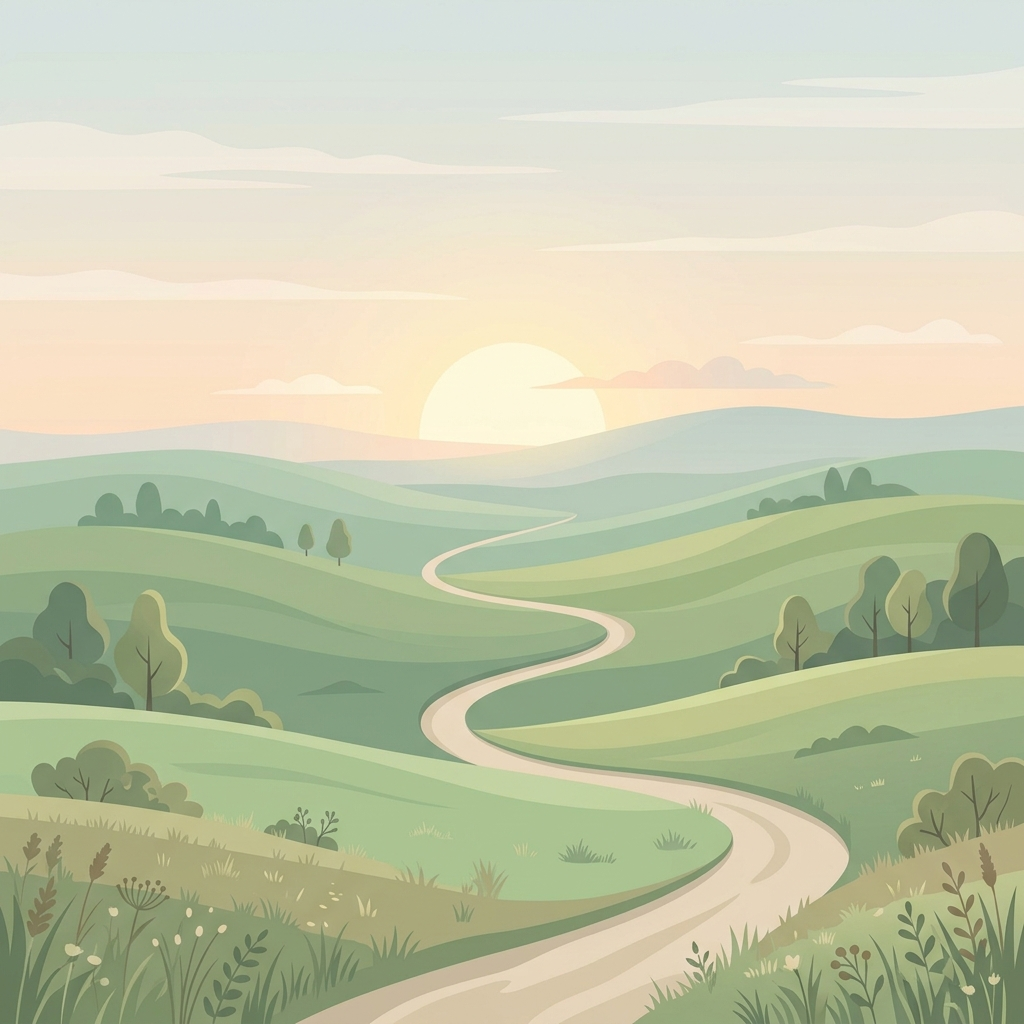
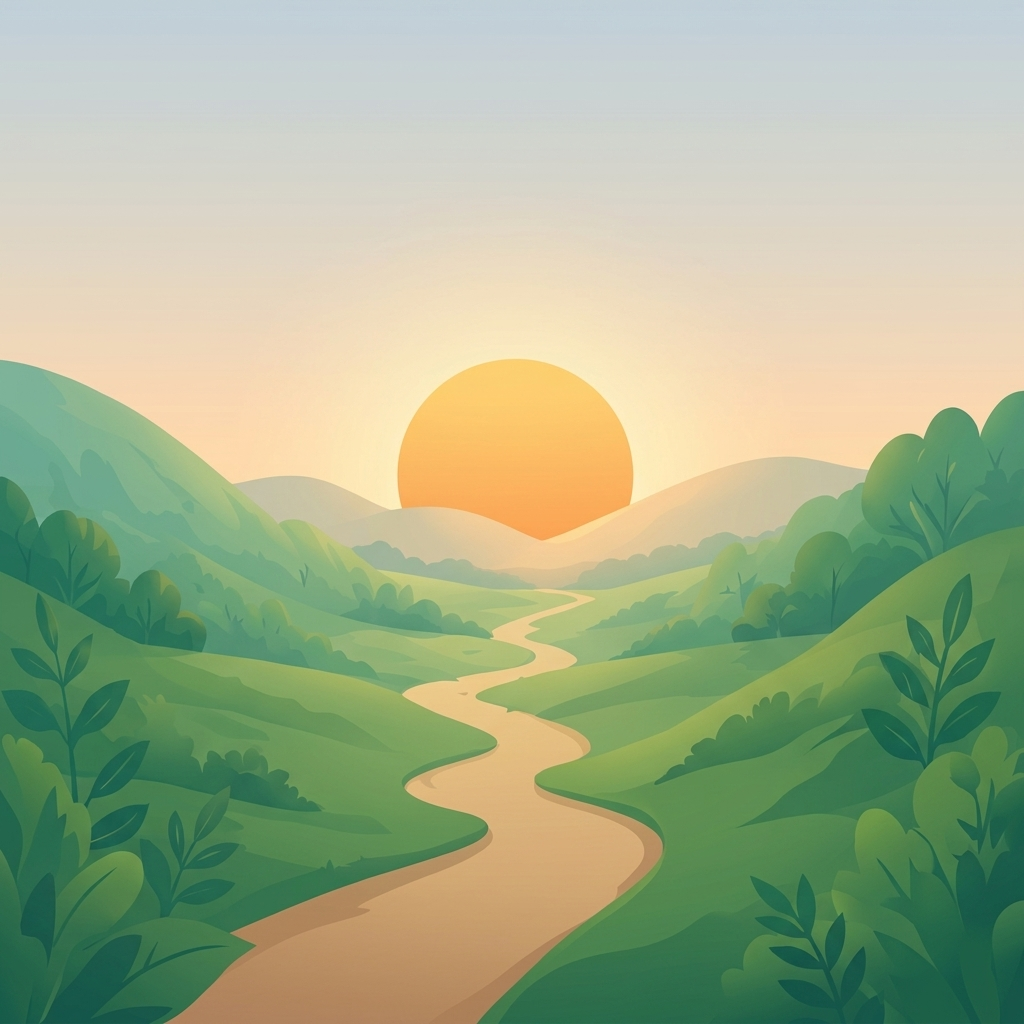
Update background animation to slide up from bottom

diff --git a/frontend/src/index.css b/frontend/src/index.css
@@ -6,9 +6,6 @@
   --text-dark: #1A2E35;
   --text-gray: #546E7A;
   --bg-cream: #FCFAF8;
-  --leaf-color: #6DBE8E;
-  --sun-color: #F8CA55;
-  --sprout-color: #7BB95E;
 }
 
 * {
@@ -19,75 +16,84 @@
 
 body {
   font-family: 'Inter', sans-serif;
-  background-color: var(--bg-cream);
   color: var(--text-dark);
   -webkit-font-smoothing: antialiased;
   overflow-x: hidden;
 }
 
-/* Animations - Clean Slide Up */
-@keyframes slideUpFade {
-  0% { opacity: 0; transform: translateY(40px); }
+/* Animations */
+@keyframes bgSlideUpFromBottom {
+  0%   { opacity: 0; transform: translateY(100vh); }
   100% { opacity: 1; transform: translateY(0); }
 }
 
-@keyframes landscapeSlideUp {
-  0% { opacity: 0; transform: translateY(100px); }
+@keyframes slideUp {
+  0%   { opacity: 0; transform: translateY(40px); }
   100% { opacity: 1; transform: translateY(0); }
 }
 
-/* App Container - Responsive for Desktop & Mobile */
+@keyframes slideDown {
+  0%   { opacity: 0; transform: translateY(-30px); }
+  100% { opacity: 1; transform: translateY(0); }
+}
+
+/* App Container — background image fills full screen */
 .app-container {
   display: flex;
   flex-direction: column;
   min-height: 100vh;
-  position: relative;
   width: 100%;
-  background-color: var(--bg-cream);
+  position: relative;
   overflow: hidden;
-  align-items: center;
+  background-color: var(--bg-cream);
 }
 
-/* Landscape Background - Covers bottom across all screens */
-.landscape-bg {
+.app-container::before {
+  content: "";
   position: absolute;
-  bottom: 0;
+  top: 0;
   left: 0;
   width: 100%;
-  height: 50vh; 
+  height: 100%;
   background-image: url('/hopemo_bg.png');
   background-size: cover;
-  background-position: center top;
+  background-position: center center;
   background-repeat: no-repeat;
-  z-index: 1;
+  z-index: 0;
+
+  /* Slides up from bottom */
   opacity: 0;
-  animation: landscapeSlideUp 1.2s cubic-bezier(0.16, 1, 0.3, 1) forwards;
-  animation-delay: 0.2s;
+  transform: translateY(100vh);
+  animation: bgSlideUpFromBottom 1.5s cubic-bezier(0.16, 1, 0.3, 1) forwards;
 }
 
-/* Content Wrapper to push things to front */
+/* Content Wrapper — sits on top of background */
 .content-wrapper {
+  position: relative;
   z-index: 10;
   width: 100%;
-  max-width: 800px;
+  max-width: 500px;
+  margin: 0 auto;
   display: flex;
   flex-direction: column;
   align-items: center;
   flex: 1;
+  min-height: 100vh;
   padding: 0 20px;
 }
 
-/* Header */
+/* Header — slides down after background appears */
 .header {
   text-align: center;
-  padding: 60px 20px 20px;
+  padding: 50px 20px 20px;
   display: flex;
   flex-direction: column;
   align-items: center;
   opacity: 0;
-  animation: slideUpFade 0.8s cubic-bezier(0.16, 1, 0.3, 1) forwards;
-  animation-delay: 2.2s; /* Appears later */
+  animation: slideDown 1.2s cubic-bezier(0.16, 1, 0.3, 1) forwards;
+  animation-delay: 2.2s;
 }
+
 .logo-container {
   display: flex;
   flex-direction: column;
@@ -95,132 +101,70 @@ body {
   gap: 8px;
   margin-bottom: 4px;
 }
+
 .logo-icon { color: var(--primary-green); }
+
 .logo-text {
   font-size: 32px;
   font-weight: 700;
   color: var(--primary-green);
   letter-spacing: -0.5px;
 }
+
 .subtitle {
   font-size: 15px;
   color: var(--text-gray);
   font-weight: 500;
 }
 
-/* Main Content */
+/* Main Content — slides up after header */
 .main-content {
   text-align: center;
-  padding: 20px 0 40px;
+  padding: 10px 0 30px;
   opacity: 0;
-  animation: slideUpFade 0.8s cubic-bezier(0.16, 1, 0.3, 1) forwards;
-  animation-delay: 1.8s;
+  animation: slideUp 1.2s cubic-bezier(0.16, 1, 0.3, 1) forwards;
+  animation-delay: 3.0s;
 }
+
 .title {
-  font-size: 42px;
+  font-size: 36px;
   font-weight: 700;
   line-height: 1.2;
   color: var(--text-dark);
-  margin-bottom: 24px;
+  margin-bottom: 20px;
   letter-spacing: -1px;
 }
+
 .description {
-  font-size: 18px;
+  font-size: 16px;
   color: var(--text-gray);
   line-height: 1.6;
 }
 
-@media (max-width: 768px) {
-  .title { font-size: 32px; }
-  .description { font-size: 16px; }
-}
-
-/* Spacer to push card down */
-.spacer {
-  flex: 1;
-}
+/* Spacer */
+.spacer { flex: 1; }
 
 /* Bottom Card Container */
 .bottom-card-container {
   width: 100%;
-  max-width: 600px;
-  margin: 0 auto;
   padding: 0 0 40px;
-  z-index: 20;
+  opacity: 0;
+  animation: slideUp 1.2s cubic-bezier(0.16, 1, 0.3, 1) forwards;
+  animation-delay: 3.8s;
 }
 
 .trusted-card {
   background: white;
   border-radius: 24px;
-  padding: 32px 24px;
-  box-shadow: 0 20px 40px rgba(0,0,0,0.08);
-  opacity: 0;
-  animation: slideUpFade 1s cubic-bezier(0.16, 1, 0.3, 1) forwards;
-  animation-delay: 0.6s;
-}
-
-.trusted-title {
-  text-align: center;
-  color: var(--text-dark);
-  font-size: 15px;
-  font-weight: 500;
-  margin-bottom: 24px;
-  opacity: 0;
-  animation: slideUpFade 0.8s cubic-bezier(0.16, 1, 0.3, 1) forwards;
-  animation-delay: 0.8s;
-}
-
-.features-grid {
-  display: flex;
-  justify-content: space-between;
-  margin-bottom: 32px;
-}
-
-.feature-item {
-  display: flex;
-  flex-direction: column;
-  align-items: center;
-  gap: 12px;
-  flex: 1;
-  position: relative;
-  opacity: 0;
-  animation: slideUpFade 0.8s cubic-bezier(0.16, 1, 0.3, 1) forwards;
-}
-
-/* Features pop up sequentially */
-.feature-item:nth-child(1) { animation-delay: 1.0s; }
-.feature-item:nth-child(2) { animation-delay: 1.2s; }
-.feature-item:nth-child(3) { animation-delay: 1.4s; }
-
-.feature-item:not(:last-child)::after {
-  content: '';
-  position: absolute;
-  right: 0;
-  top: 10%;
-  height: 80%;
-  width: 1px;
-  background-color: #F0F0F0;
-}
-
-.feature-icon { margin-bottom: 4px; }
-.leaf-icon { color: var(--leaf-color); }
-.sun-icon { color: var(--sun-color); }
-.sprout-icon { color: var(--sprout-color); }
-
-.feature-item span {
-  font-size: 14px;
-  color: var(--text-dark);
-  font-weight: 500;
+  padding: 24px 20px;
+  box-shadow: 0 15px 40px rgba(0, 0, 0, 0.1);
 }
 
 /* Buttons */
 .buttons-container {
   display: flex;
   flex-direction: column;
-  gap: 16px;
-  opacity: 0;
-  animation: slideUpFade 0.8s cubic-bezier(0.16, 1, 0.3, 1) forwards;
-  animation-delay: 2.6s;
+  gap: 14px;
 }
 
 .btn-primary {
@@ -236,26 +180,30 @@ body {
   align-items: center;
   gap: 8px;
   cursor: pointer;
-  transition: all 0.2s ease;
+  transition: background 0.2s ease;
+  font-family: 'Inter', sans-serif;
 }
-
-.btn-primary:hover {
-  background-color: #216048;
-}
+.btn-primary:hover { background-color: #216048; }
 
 .btn-secondary {
   background-color: white;
   color: var(--primary-green);
-  border: 1px solid #E0E0E0;
+  border: 1.5px solid #E0E0E0;
   border-radius: 12px;
   padding: 18px;
   font-size: 16px;
   font-weight: 600;
   cursor: pointer;
   transition: all 0.2s ease;
+  font-family: 'Inter', sans-serif;
 }
-
 .btn-secondary:hover {
   background-color: var(--secondary-green);
   border-color: var(--primary-green);
+}
+
+/* Responsive */
+@media (max-width: 480px) {
+  .title { font-size: 28px; }
+  .description { font-size: 15px; }
 }

diff --git a/frontend/src/App.jsx b/frontend/src/App.jsx
@@ -1,15 +1,14 @@
 import React from 'react';
-import { Leaf, Sun, Sprout, ArrowRight } from 'lucide-react';
+import { Leaf, ArrowRight } from 'lucide-react';
 import './index.css';
 
 function App() {
   return (
     <div className="app-container">
-      {/* Landscape Image Background */}
-      <div className="landscape-bg"></div>
 
-      {/* Content Wrapper for positioning */}
+      {/* Content on top of background */}
       <div className="content-wrapper">
+
         {/* Top Header */}
         <header className="header">
           <div className="logo-container">
@@ -25,7 +24,6 @@ function App() {
             A space that listens<br />
             without judgment
           </h2>
-          
           <p className="description">
             Hopemo helps you understand your<br />
             emotions, build resilience, and grow —<br />
@@ -36,38 +34,21 @@ function App() {
         {/* Spacer to push card to bottom */}
         <div className="spacer"></div>
 
-        {/* Bottom Card overlapping landscape */}
+        {/* Bottom Buttons Card */}
         <div className="bottom-card-container">
           <div className="trusted-card">
-            <p className="trusted-title">Trusted by people seeking:</p>
-            
-            <div className="features-grid">
-              <div className="feature-item">
-                <Leaf className="feature-icon leaf-icon" size={24} />
-                <span>More calm</span>
-              </div>
-              <div className="feature-item">
-                <Sun className="feature-icon sun-icon" size={24} />
-                <span>More clarity</span>
-              </div>
-              <div className="feature-item">
-                <Sprout className="feature-icon sprout-icon" size={24} />
-                <span>More hope</span>
-              </div>
-            </div>
-            
             <div className="buttons-container">
               <button className="btn-primary">
                 Get started
                 <ArrowRight size={20} />
               </button>
-              
               <button className="btn-secondary">
                 I already have an account
               </button>
             </div>
           </div>
         </div>
+
       </div>
     </div>
   );